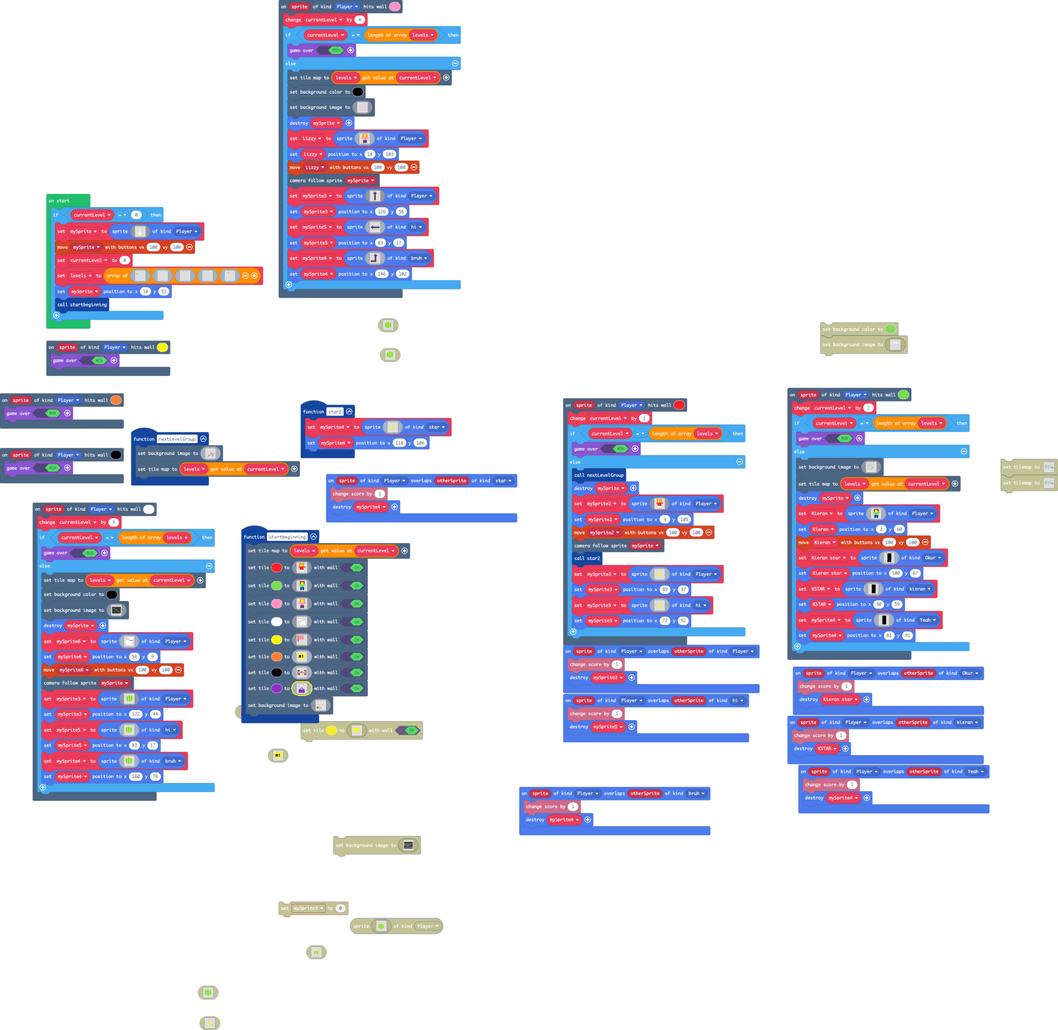
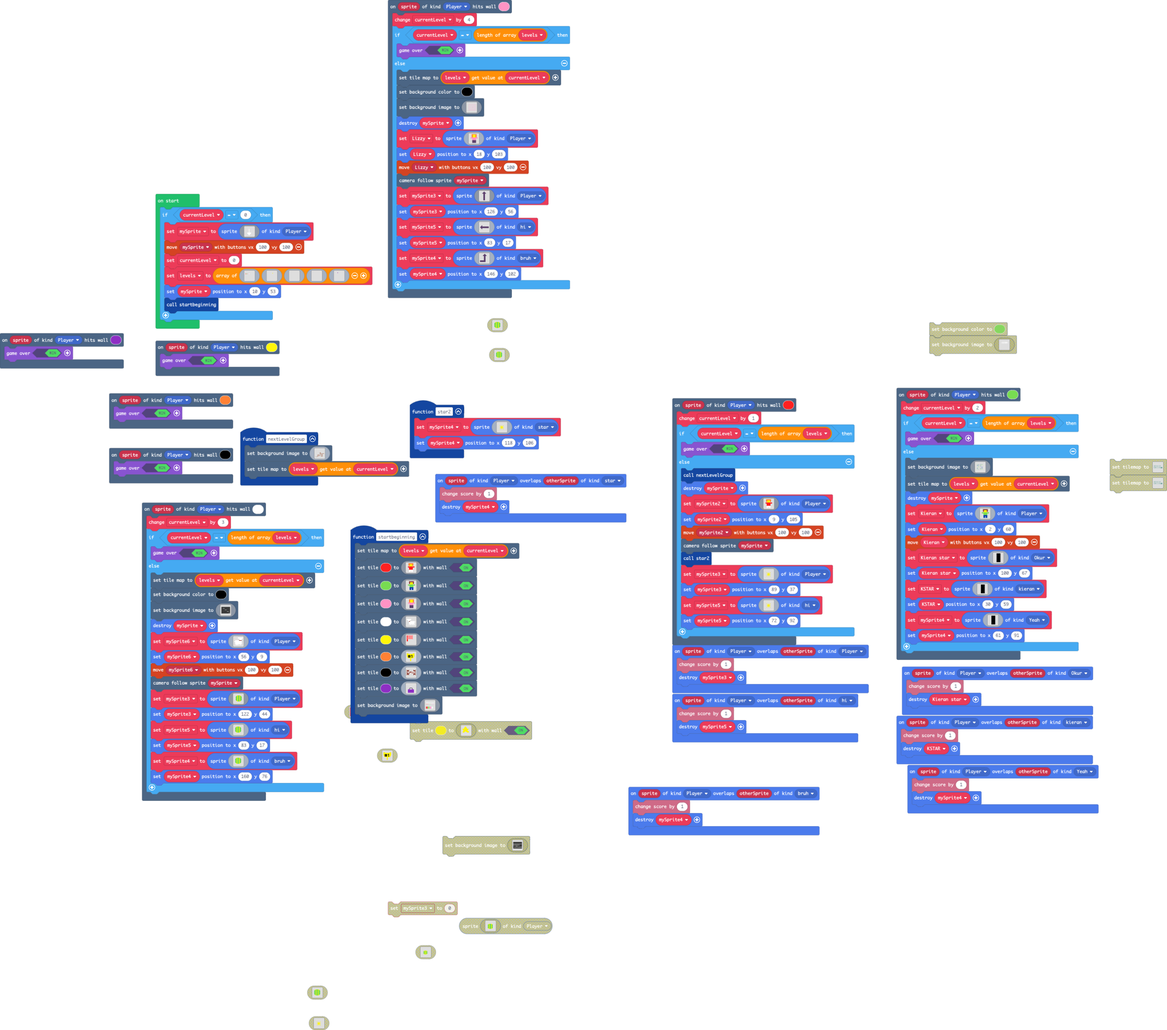
Update main.blocks, main.ts

diff --git a/main.ts b/main.ts
@@ -135,6 +135,9 @@ sprites.onOverlap(SpriteKind.Player, SpriteKind.bruh, function (sprite, otherSpr
     info.changeScoreBy(1)
     mySprite4.destroy()
 })
+scene.onHitTile(SpriteKind.Player, 10, function (sprite) {
+    game.over(true)
+})
 scene.onHitTile(SpriteKind.Player, 7, function (sprite) {
     currentLevel += 2
     if (currentLevel == levels.length) {
@@ -662,99 +665,99 @@ scene.onHitTile(SpriteKind.Player, 3, function (sprite) {
             ................................................................................................................................................................
             ................................................................................................................................................................
             ................................................................................................................................................................
-            ................................................................................................................................................................
-            ................................................................................................................................................................
-            ................................................................................................................................................................
-            ................................................................................................................................................................
-            ................................................................................................................................................................
-            .................................333333333333333333333333333333333333333333333333333333333333333333333333333333333333333333333333333333333333333333333333.......
-            .................................333333333333333333333333333333333333333333333333333333333333333333333333333333333333333333333333333333333333333333333333.......
-            .................................333333333333333333333333333333333333333333333333333333333333333333333333333333333333333333333333333333333333333333333333.......
-            .................................333..................................................................................................................333.......
-            .................................333..................................................................................................................333.......
-            .................................333..................................................................................................................333.......
-            .................................333..................................................................................................................333.......
-            .................................333..................................................................................................................333.......
-            .................................333..................................................................................................................333.......
-            .................................333..................................................................................................................333.......
-            .................................333..................................................................................................................333.......
-            .................................333..................................................................................................................333.......
-            .................................333..................................................................................................................333.......
-            .................................333..................................................................................................................333.......
-            .................................333..................................................................................................................333.......
-            .................................333..................................................................................................................333.......
-            .................................333..................................................................................................................333.......
-            .................................333..................................................................................................................333.......
-            .................................333..................................................................................................................333.......
-            .................................333..................................................................................................................333.......
-            .................................333..................................................................................................................333.......
-            .................................333..................................................................................................................333.......
-            .................................333...............33333333333333333333333333333333333333333333333333333333333333333333333333333333333................333.......
-            .................................333...............33333333333333333333333333333333333333333333333333333333333333333333333333333333333................333.......
-            .................................333...............33333333333333333333333333333333333333333333333333333333333333333333333333333333333................333.......
-            .................................333...............333.............................................................................333................333.......
-            .................................333...............333.............................................................................333................333.......
-            .................................333...............333.............................................................................333................333.......
-            .................................333...............333.............................................................................333................333.......
-            .................................333...............333.............................................................................333................333.......
-            .................................333...............333.............................................................................333................333.......
-            .................................333...............333.............................................................................333................333.......
-            .................................333...............333.............................................................................333................333.......
-            .................................333...............333.............................................................................333................333.......
-            .................................333...............333.............................................................................333................333.......
-            .................................333...............333.............................................................................333................333.......
-            .................................333...............333.............................................................................333................333.......
-            .................................333...............333.............................................................................333................333.......
-            .................................333...............333.............................................................................333................333.......
-            .................................333...............333.............................................................................333................333.......
-            .................................333...............333.............................................................................333................333.......
-            .................................333...............333.............................................................................333................333.......
-            .................................333...............333.............................................................................333................333.......
-            .................................333...............333.....................333333333333333333333333333333333333....................333................333.......
-            .................................333...............333.....................333333333333333333333333333333333333....................333................333.......
-            .................................333...............333.....................333333333333333333333333333333333333....................333................333.......
-            .................................333...............333......................................................333....................333................333.......
-            .................................333...............333......................................................333....................333................333.......
-            .................................333...............333......................................................333....................333................333.......
-            .................................333...............333......................................................333....................333................333.......
-            .................................333...............333......................................................333....................333................333.......
-            .................................333...............333......................................................333....................333................333.......
-            .................................333...............333......................................................333....................333................333.......
-            .................................333...............333......................................................333....................333................333.......
-            .................................333...............333......................................................333....................333................333.......
-            .................................333...............333......................................................333....................333................333.......
-            .................................333...............333......................................................333....................333................333.......
-            .................................333...............333......................................................333....................333................333.......
-            .................................333...............333......................................................333....................333................333.......
-            .................................333...............333......................................................333....................333................333.......
-            .................................333...............333333333333333333333333333333333333333333333333333333333333....................333................333.......
-            .................................333...............333333333333333333333333333333333333333333333333333333333333....................333................333.......
-            .................................333...............333333333333333333333333333333333333333333333333333333333333....................333................333.......
-            .................................333...............................................................................................333................333.......
-            .................................333...............................................................................................333................333.......
-            .................................333...............................................................................................333................333.......
-            .................................333...............................................................................................333................333.......
-            .................................333...............................................................................................333................333.......
-            .................................333...............................................................................................333................333.......
-            .................................333...............................................................................................333................333.......
-            .................................333...............................................................................................333................333.......
-            .................................333...............................................................................................333................333.......
-            .................................333...............................................................................................333................333.......
-            .................................333...............................................................................................333................333.......
-            .................................333...............................................................................................333................333.......
-            .................................333...............................................................................................333................333.......
-            .................................333...............................................................................................333................333.......
-            .................................333...............................................................................................333................333.......
-            .................................333...............................................................................................333................333.......
-            .................................333...............................................................................................333................333.......
-            .................................333...............................................................................................333................333.......
-            .................................333...............................................................................................333................333.......
-            .................................333...............................................................................................333................333.......
-            .................................333...............................................................................................333................333.......
-            .................................333...............................................................................................333................333.......
-            .................................33333333333333333333333333333333333333333333333333333333333333333333333333333333333333333333333333333................333.......
-            .................................33333333333333333333333333333333333333333333333333333333333333333333333333333333333333333333333333333................333.......
-            .................................33333333333333333333333333333333333333333333333333333333333333333333333333333333333333333333333333333................333.......
+            ..............................333333333333333333333333333333333333333333333333333333333333333333333333333333333333333333333333333333333333333333333333333.......
+            ..............................333333333333333333333333333333333333333333333333333333333333333333333333333333333333333333333333333333333333333333333333333.......
+            ..............................333333333333333333333333333333333333333333333333333333333333333333333333333333333333333333333333333333333333333333333333333.......
+            ..............................333.....................................................................................................................333.......
+            ..............................333.....................................................................................................................333.......
+            ..............................333.....................................................................................................................333.......
+            ..............................333.....................................................................................................................333.......
+            ..............................333.....................................................................................................................333.......
+            ..............................333.....................................................................................................................333.......
+            ..............................333.....................................................................................................................333.......
+            ..............................333.....................................................................................................................333.......
+            ..............................333.....................................................................................................................333.......
+            ..............................333.....................................................................................................................333.......
+            ..............................333.....................................................................................................................333.......
+            ..............................333.....................................................................................................................333.......
+            ..............................333.....................................................................................................................333.......
+            ..............................333.....................................................................................................................333.......
+            ..............................333.....................................................................................................................333.......
+            ..............................333.....................................................................................................................333.......
+            ..............................333.....................................................................................................................333.......
+            ..............................333.....................................................................................................................333.......
+            ..............................333.....................................................................................................................333.......
+            ..............................333.....................................................................................................................333.......
+            ..............................333.....................................................................................................................333.......
+            ..............................333..................33333333333333333333333333333333333333333333333333333333333333333333333333333333333................333.......
+            ..............................333..................33333333333333333333333333333333333333333333333333333333333333333333333333333333333................333.......
+            ..............................333..................33333333333333333333333333333333333333333333333333333333333333333333333333333333333................333.......
+            ..............................333..................333.............................................................................333................333.......
+            ..............................333..................333.............................................................................333................333.......
+            ..............................333..................333.............................................................................333................333.......
+            ..............................333..................333.............................................................................333................333.......
+            ..............................333..................333.............................................................................333................333.......
+            ..............................333..................333.............................................................................333................333.......
+            ..............................333..................333.............................................................................333................333.......
+            ..............................333..................333.............................................................................333................333.......
+            ..............................333..................333.............................................................................333................333.......
+            ..............................333..................333.............................................................................333................333.......
+            ..............................333..................333.............................................................................333................333.......
+            ..............................333..................333.............................................................................333................333.......
+            ..............................333..................333.............................................................................333................333.......
+            ..............................333..................333.............................................................................333................333.......
+            ..............................333..................333.............................................................................333................333.......
+            ..............................333..................333.............................................................................333................333.......
+            ..............................333..................333.............................................................................333................333.......
+            ..............................333..................333.............................................................................333................333.......
+            ..............................333..................333.............................................................................333................333.......
+            ..............................333..................333.............................................................................333................333.......
+            ..............................333..................333.............................................................................333................333.......
+            ..............................333..................333.....................333333333333333333333333333333333333....................333................333.......
+            ..............................333..................333.....................333333333333333333333333333333333333....................333................333.......
+            ..............................333..................333.....................333333333333333333333333333333333333....................333................333.......
+            ..............................333..................333......................................................333....................333................333.......
+            ..............................333..................333......................................................333....................333................333.......
+            ..............................333..................333......................................................333....................333................333.......
+            ..............................333..................333......................................................333....................333................333.......
+            ..............................333..................333......................................................333....................333................333.......
+            ..............................333..................333......................................................333....................333................333.......
+            ..............................333..................333......................................................333....................333................333.......
+            ..............................333..................333......................................................333....................333................333.......
+            ..............................333..................333......................................................333....................333................333.......
+            ..............................333..................333......................................................333....................333................333.......
+            ..............................333..................333......................................................333....................333................333.......
+            ..............................333..................333......................................................333....................333................333.......
+            ..............................333..................333......................................................333....................333................333.......
+            ..............................333..................333......................................................333....................333................333.......
+            ..............................333..................333333333333333333333333333333333333333333333333333333333333....................333................333.......
+            ..............................333..................333333333333333333333333333333333333333333333333333333333333....................333................333.......
+            ..............................333..................333333333333333333333333333333333333333333333333333333333333....................333................333.......
+            ..............................333..................................................................................................333................333.......
+            ..............................333..................................................................................................333................333.......
+            ..............................333..................................................................................................333................333.......
+            ..............................333..................................................................................................333................333.......
+            ..............................333..................................................................................................333................333.......
+            ..............................333..................................................................................................333................333.......
+            ..............................333..................................................................................................333................333.......
+            ..............................333..................................................................................................333................333.......
+            ..............................333..................................................................................................333................333.......
+            ..............................333..................................................................................................333................333.......
+            ..............................333..................................................................................................333................333.......
+            ..............................333..................................................................................................333................333.......
+            ..............................333..................................................................................................333................333.......
+            ..............................333..................................................................................................333................333.......
+            ..............................333..................................................................................................333................333.......
+            ..............................333..................................................................................................333................333.......
+            ..............................333..................................................................................................333................333.......
+            ..............................333..................................................................................................333................333.......
+            ..............................333..................................................................................................333................333.......
+            ..............................333..................................................................................................333................333.......
+            ..............................333..................................................................................................333................333.......
+            ..............................333..................................................................................................333................333.......
+            ..............................33333333333333333333333333333333333333333333333333333333333333333333333333333333333333333333333333333333................333.......
+            ..............................33333333333333333333333333333333333333333333333333333333333333333333333333333333333333333333333333333333................333.......
+            ..............................33333333333333333333333333333333333333333333333333333333333333333333333333333333333333333333333333333333................333.......
             ......................................................................................................................................................333.......
             ......................................................................................................................................................333.......
             ......................................................................................................................................................333.......
